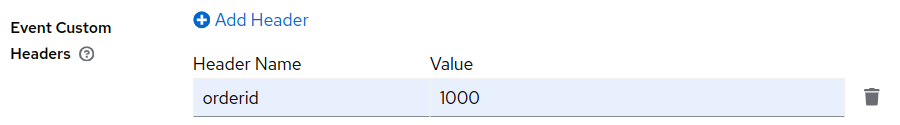
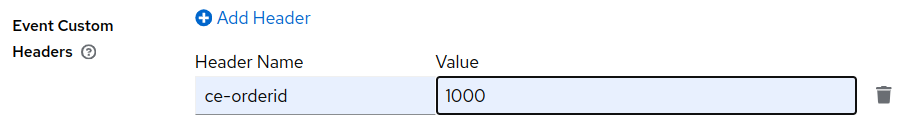
[CI] Publish Documentation for 62202d28dee57defa63793b28505250e2936642e - 62202d28dee57defa63793b28505250e2936642e 🚀

diff --git a/osl/smart/04-longrunning.html b/osl/smart/04-longrunning.html
@@ -450,7 +450,7 @@ In general, the Serverless Workflow runtime can expose multiple endpoints to ing
 </ul>
 </div>
 <div class="paragraph">
-<p>The Dev UI offers a convenient web form to inject <em>Cloud Events</em> in the Serverless Workflow runtime:</p>
+<p>The Dev UI offers a convenient web form to inject <em>CloudEvents</em> in the Serverless Workflow runtime:</p>
 </div>
 <div class="olist arabic">
 <ol class="arabic">
@@ -473,10 +473,10 @@ In general, the Serverless Workflow runtime can expose multiple endpoints to ing
 <p><strong>Event Type</strong> : <code>OrderEventType</code></p>
 </li>
 <li>
-<p><strong>Event Custom Headers</strong> : <code>orderid = 1000</code></p>
+<p><strong>Event Custom Headers</strong> : <code>ce-orderid = 1000</code></p>
 <div class="imageblock">
 <div class="content">
-<img src="_images/04_ce-header.png" alt="cloud event header">
+<img src="_images/04_ce-header.png" alt="custom event header">
 </div>
 </div>
 </li>
@@ -498,7 +498,8 @@ In general, the Serverless Workflow runtime can expose multiple endpoints to ing
 <i class="fa icon-important" title="Important"></i>
 </td>
 <td class="content">
-The <strong>custom event header</strong> <code>orderid</code> matches the <code>contextAttributeName</code> used in the event definition for correlation. In other words, <code>orderid</code> is the hook to the workflow instance, you can run multiple workflow instances in parallel, but they must wait for a distinct <code>orderid</code>.
+The CloudEvent is sent via the HTTP protocol, and by convention the CloudEvent attributes are sent as an HTTP header with a <code>ce-</code> prefix.
+The <strong>CloudEvent attribute</strong> <code>orderid</code> matches the <code>contextAttributeName</code> used in the event definition for correlation. In other words, <code>orderid</code> is the hook to the workflow instance, you can run multiple workflow instances in parallel, but they must wait for a distinct <code>orderid</code>.
 </td>
 </tr>
 </table>
@@ -533,7 +534,7 @@ The <strong>custom event header</strong> <code>orderid</code> matches the <code>
 <p><strong>Event Type</strong> : <code>ShippingEventType</code></p>
 </li>
 <li>
-<p><strong>Event Custom Headers</strong> : <code>orderid = 1000</code></p>
+<p><strong>Event Custom Headers</strong> : <code>ce-orderid = 1000</code></p>
 </li>
 </ul>
 </div>

diff --git a/osl/smart/05-compensation.html b/osl/smart/05-compensation.html
@@ -415,7 +415,7 @@ At the cancellation event, we can see the statement <code>eventDataFilter</code>
 <p><strong>Event Type</strong> : <code>OrderEventType</code></p>
 </li>
 <li>
-<p><strong>Event Custom Headers</strong> : <code>orderid = 1002</code></p>
+<p><strong>Event Custom Headers</strong> : <code>ce-orderid = 1002</code></p>
 </li>
 <li>
 <p><strong>Event Data</strong> : <code>{"orderId": "1002", "item": "1111"}</code></p>
@@ -429,7 +429,7 @@ At the cancellation event, we can see the statement <code>eventDataFilter</code>
 </ol>
 </div>
 <div class="paragraph">
-<p>Repeat the previous step to start a second workflow instance with <code>orderid = 1003</code>.</p>
+<p>Repeat the previous step to start a second workflow instance with <code>ce-orderid = 1003</code>.</p>
 </div>
 <div class="paragraph">
 <p>Inject other two CloudEvents:</p>
@@ -444,7 +444,7 @@ At the cancellation event, we can see the statement <code>eventDataFilter</code>
 <p><strong>Event Type</strong> : <code>ShippingEventType</code></p>
 </li>
 <li>
-<p><strong>Event Custom Headers</strong> : <code>orderid = 1002</code></p>
+<p><strong>Event Custom Headers</strong> : <code>ce-orderid = 1002</code></p>
 </li>
 </ul>
 </div>
@@ -457,7 +457,7 @@ At the cancellation event, we can see the statement <code>eventDataFilter</code>
 <p><strong>Event Type</strong> : <code>CancelEventType</code></p>
 </li>
 <li>
-<p><strong>Event Custom Headers</strong> : <code>orderid = 1003</code></p>
+<p><strong>Event Custom Headers</strong> : <code>ce-orderid = 1003</code></p>
 </li>
 </ul>
 </div>
